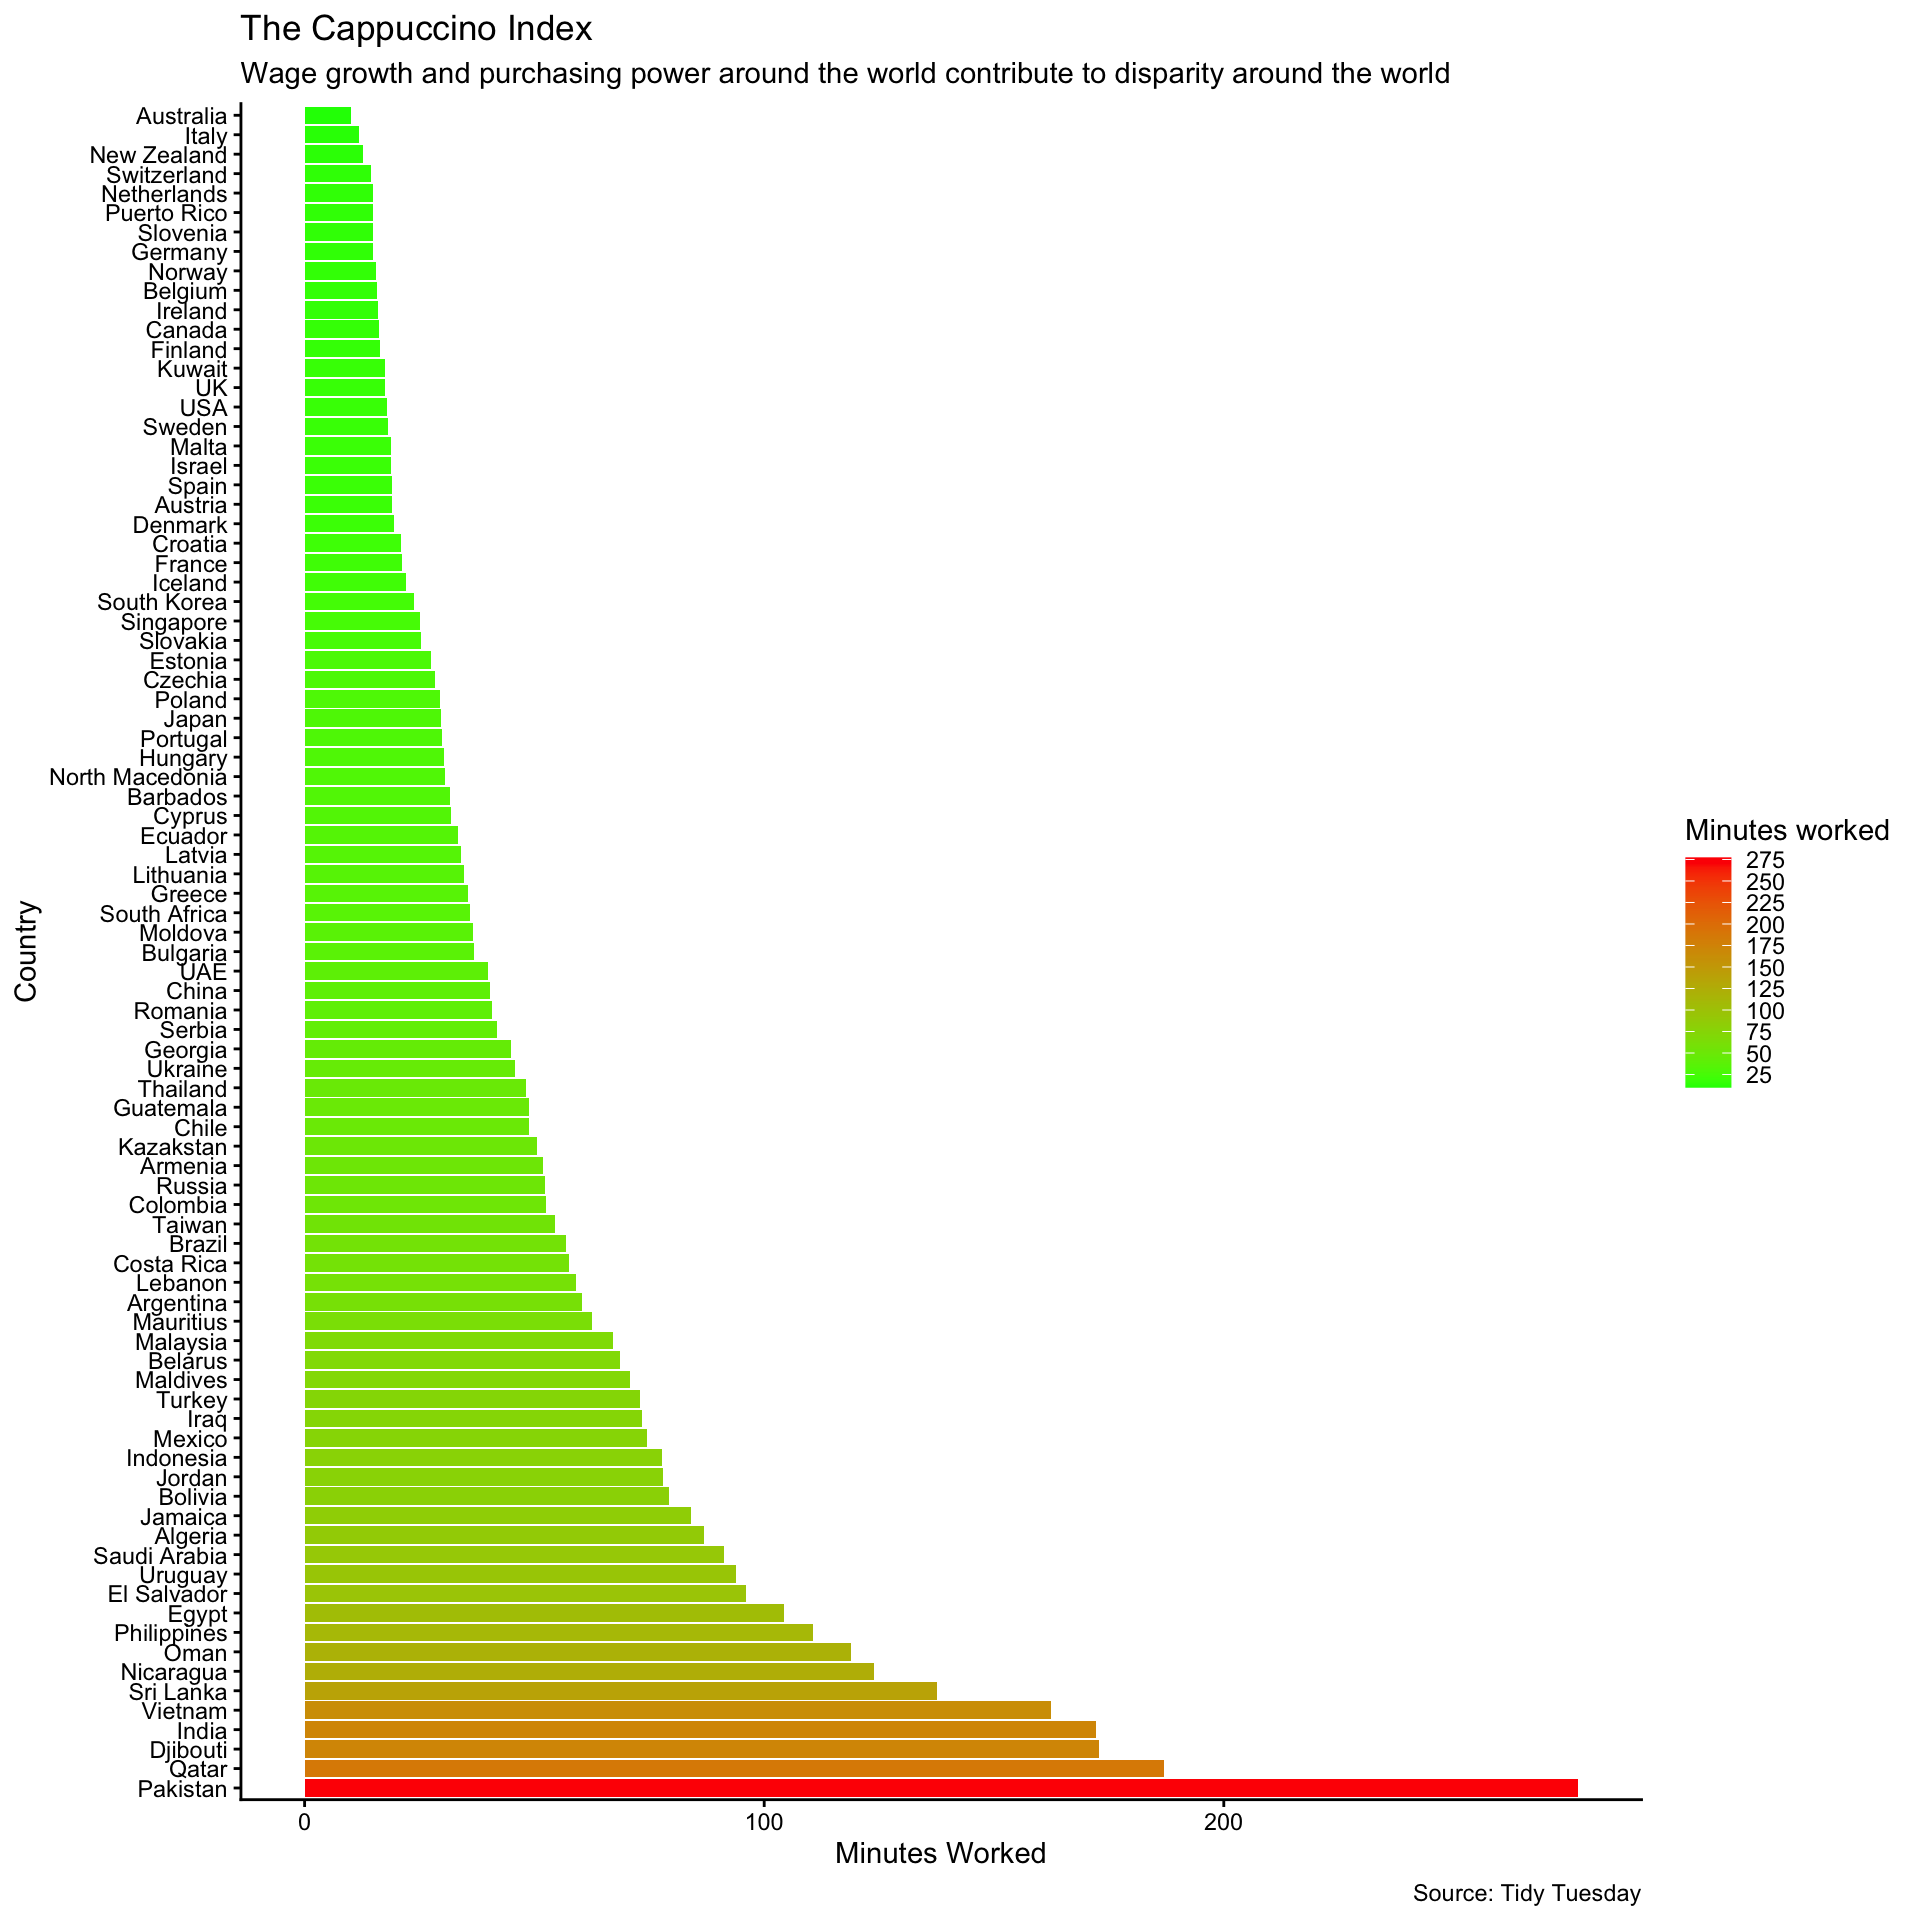
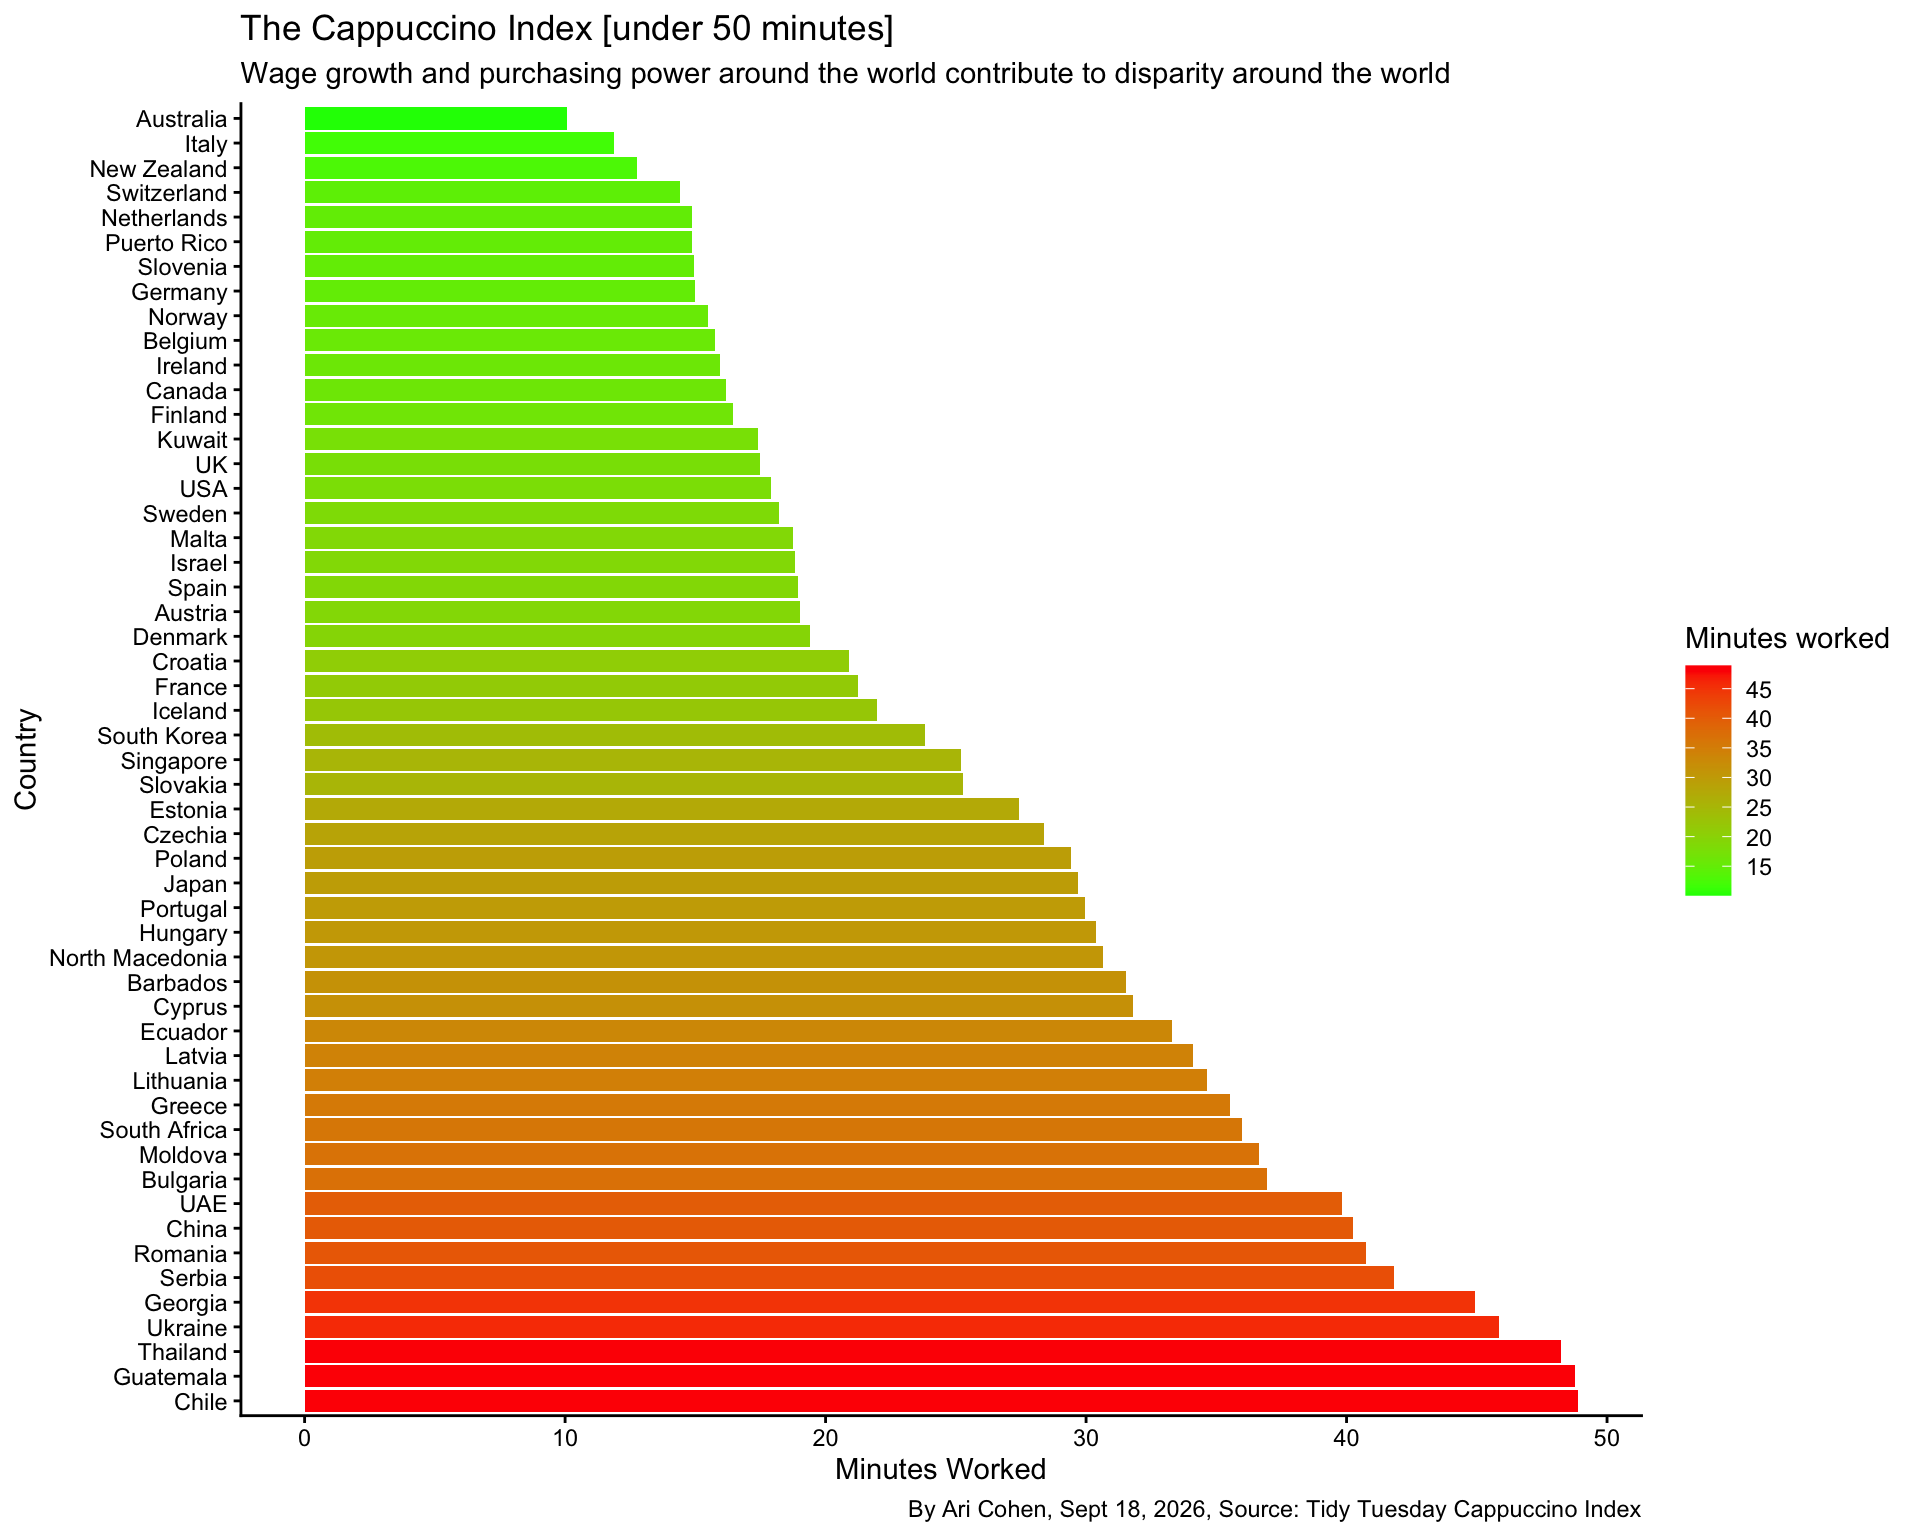
Built site for gh-pages

diff --git a/tt/hw1.html b/tt/hw1.html
@@ -469,19 +469,20 @@ cookieconsent.run({
 <div class="cell">
 <details class="code-fold"><summary>Code</summary><div class="code-copy-outer-scaffold"><div class="sourceCode cell-code" id="cb3"><pre class="sourceCode numberSource r number-lines code-with-copy"><code class="sourceCode r"><span id="cb3-1"><a href="#cb3-1"></a>cappuccino_index <span class="sc">|&gt;</span></span>
 <span id="cb3-2"><a href="#cb3-2"></a>  <span class="fu">mutate</span>(<span class="at">country =</span> <span class="fu">fct_reorder</span>(country, index, <span class="at">.desc =</span> <span class="cn">TRUE</span>)) <span class="sc">|&gt;</span></span>
-<span id="cb3-3"><a href="#cb3-3"></a>  <span class="fu">ggplot</span>(<span class="fu">aes</span>(<span class="at">x =</span> index, <span class="at">y =</span> country, <span class="at">fill =</span> index) ) <span class="sc">+</span></span>
-<span id="cb3-4"><a href="#cb3-4"></a>  <span class="fu">scale_fill_gradient</span>(<span class="at">low =</span> <span class="st">"green"</span>, <span class="at">high =</span> <span class="st">"red"</span>,</span>
-<span id="cb3-5"><a href="#cb3-5"></a>                      <span class="at">breaks =</span> <span class="fu">seq</span>(<span class="dv">0</span>, <span class="fu">max</span>(cappuccino_index<span class="sc">$</span>index), <span class="at">by =</span> <span class="dv">25</span>) ) <span class="sc">+</span></span>
-<span id="cb3-6"><a href="#cb3-6"></a>  <span class="fu">geom_col</span>() <span class="sc">+</span></span>
-<span id="cb3-7"><a href="#cb3-7"></a>  <span class="fu">theme_classic</span>() <span class="sc">+</span></span>
-<span id="cb3-8"><a href="#cb3-8"></a>  <span class="fu">labs</span>(</span>
-<span id="cb3-9"><a href="#cb3-9"></a>    <span class="at">x =</span> <span class="st">"Minutes Worked"</span>,</span>
-<span id="cb3-10"><a href="#cb3-10"></a>    <span class="at">y =</span> <span class="st">"Country"</span>,</span>
-<span id="cb3-11"><a href="#cb3-11"></a>    <span class="at">title =</span> <span class="st">"The Cappuccino Index"</span>,</span>
-<span id="cb3-12"><a href="#cb3-12"></a>    <span class="at">fill =</span> <span class="st">"Minutes worked"</span>,</span>
-<span id="cb3-13"><a href="#cb3-13"></a>    <span class="at">subtitle =</span> <span class="st">"Wage growth and purchasing power around the world contribute to disparity around the world"</span>,</span>
-<span id="cb3-14"><a href="#cb3-14"></a>    <span class="at">caption =</span> <span class="st">"Source: Tidy Tuesday"</span></span>
-<span id="cb3-15"><a href="#cb3-15"></a>  )</span></code></pre></div><button title="Copy to Clipboard" class="code-copy-button"><i class="bi"></i></button></div>
+<span id="cb3-3"><a href="#cb3-3"></a>  <span class="fu">filter</span>(index <span class="sc">&lt;</span> <span class="dv">50</span>) <span class="sc">|&gt;</span></span>
+<span id="cb3-4"><a href="#cb3-4"></a>  <span class="fu">ggplot</span>(<span class="fu">aes</span>(<span class="at">x =</span> index, <span class="at">y =</span> country, <span class="at">fill =</span> index) ) <span class="sc">+</span></span>
+<span id="cb3-5"><a href="#cb3-5"></a>  <span class="fu">scale_fill_gradient</span>(<span class="at">low =</span> <span class="st">"green"</span>, <span class="at">high =</span> <span class="st">"red"</span>,</span>
+<span id="cb3-6"><a href="#cb3-6"></a>                      <span class="at">breaks =</span> <span class="fu">seq</span>(<span class="dv">0</span>, <span class="fu">max</span>(cappuccino_index<span class="sc">$</span>index), <span class="at">by =</span> <span class="dv">5</span>) ) <span class="sc">+</span></span>
+<span id="cb3-7"><a href="#cb3-7"></a>  <span class="fu">geom_col</span>() <span class="sc">+</span></span>
+<span id="cb3-8"><a href="#cb3-8"></a>  <span class="fu">theme_classic</span>() <span class="sc">+</span></span>
+<span id="cb3-9"><a href="#cb3-9"></a>  <span class="fu">labs</span>(</span>
+<span id="cb3-10"><a href="#cb3-10"></a>    <span class="at">x =</span> <span class="st">"Minutes Worked"</span>,</span>
+<span id="cb3-11"><a href="#cb3-11"></a>    <span class="at">y =</span> <span class="st">"Country"</span>,</span>
+<span id="cb3-12"><a href="#cb3-12"></a>    <span class="at">title =</span> <span class="st">"The Cappuccino Index [under 50 minutes]"</span>,</span>
+<span id="cb3-13"><a href="#cb3-13"></a>    <span class="at">fill =</span> <span class="st">"Minutes worked"</span>,</span>
+<span id="cb3-14"><a href="#cb3-14"></a>    <span class="at">subtitle =</span> <span class="st">"Wage growth and purchasing power around the world contribute to disparity around the world"</span>,</span>
+<span id="cb3-15"><a href="#cb3-15"></a>    <span class="at">caption =</span> <span class="st">"By Ari Cohen, Sept 18, 2026, Source: Tidy Tuesday Cappuccino Index"</span></span>
+<span id="cb3-16"><a href="#cb3-16"></a>  )</span></code></pre></div><button title="Copy to Clipboard" class="code-copy-button"><i class="bi"></i></button></div>
 </details><div class="cell-output-display">
 <div>
 <figure class="figure"><p><img src="hw1_files/figure-html/unnamed-chunk-3-1.png" class="img-fluid figure-img" width="960"></p>
@@ -994,25 +995,26 @@ cookieconsent.run({
 <span id="cb4-23"><a href="#cb4-23"></a></span>
 <span id="cb4-24"><a href="#cb4-24"></a></span>
 <span id="cb4-25"><a href="#cb4-25"></a></span>
-<span id="cb4-26"><a href="#cb4-26"></a><span class="in">```{r fig.height = 10, fig.width = 10}</span></span>
+<span id="cb4-26"><a href="#cb4-26"></a><span class="in">```{r fig.height = 8, fig.width = 10}</span></span>
 <span id="cb4-27"><a href="#cb4-27"></a>cappuccino_index <span class="sc">|&gt;</span></span>
 <span id="cb4-28"><a href="#cb4-28"></a>  <span class="fu">mutate</span>(<span class="at">country =</span> <span class="fu">fct_reorder</span>(country, index, <span class="at">.desc =</span> <span class="cn">TRUE</span>)) <span class="sc">|&gt;</span></span>
-<span id="cb4-29"><a href="#cb4-29"></a>  <span class="fu">ggplot</span>(<span class="fu">aes</span>(<span class="at">x =</span> index, <span class="at">y =</span> country, <span class="at">fill =</span> index) ) <span class="sc">+</span></span>
-<span id="cb4-30"><a href="#cb4-30"></a>  <span class="fu">scale_fill_gradient</span>(<span class="at">low =</span> <span class="st">"green"</span>, <span class="at">high =</span> <span class="st">"red"</span>,</span>
-<span id="cb4-31"><a href="#cb4-31"></a>                      <span class="at">breaks =</span> <span class="fu">seq</span>(<span class="dv">0</span>, <span class="fu">max</span>(cappuccino_index<span class="sc">$</span>index), <span class="at">by =</span> <span class="dv">25</span>) ) <span class="sc">+</span></span>
-<span id="cb4-32"><a href="#cb4-32"></a>  <span class="fu">geom_col</span>() <span class="sc">+</span></span>
-<span id="cb4-33"><a href="#cb4-33"></a>  <span class="fu">theme_classic</span>() <span class="sc">+</span></span>
-<span id="cb4-34"><a href="#cb4-34"></a>  <span class="fu">labs</span>(</span>
-<span id="cb4-35"><a href="#cb4-35"></a>    <span class="at">x =</span> <span class="st">"Minutes Worked"</span>,</span>
-<span id="cb4-36"><a href="#cb4-36"></a>    <span class="at">y =</span> <span class="st">"Country"</span>,</span>
-<span id="cb4-37"><a href="#cb4-37"></a>    <span class="at">title =</span> <span class="st">"The Cappuccino Index"</span>,</span>
-<span id="cb4-38"><a href="#cb4-38"></a>    <span class="at">fill =</span> <span class="st">"Minutes worked"</span>,</span>
-<span id="cb4-39"><a href="#cb4-39"></a>    <span class="at">subtitle =</span> <span class="st">"Wage growth and purchasing power around the world contribute to disparity around the world"</span>,</span>
-<span id="cb4-40"><a href="#cb4-40"></a>    <span class="at">caption =</span> <span class="st">"Source: Tidy Tuesday"</span></span>
-<span id="cb4-41"><a href="#cb4-41"></a>  )</span>
-<span id="cb4-42"><a href="#cb4-42"></a>  </span>
+<span id="cb4-29"><a href="#cb4-29"></a>  <span class="fu">filter</span>(index <span class="sc">&lt;</span> <span class="dv">50</span>) <span class="sc">|&gt;</span></span>
+<span id="cb4-30"><a href="#cb4-30"></a>  <span class="fu">ggplot</span>(<span class="fu">aes</span>(<span class="at">x =</span> index, <span class="at">y =</span> country, <span class="at">fill =</span> index) ) <span class="sc">+</span></span>
+<span id="cb4-31"><a href="#cb4-31"></a>  <span class="fu">scale_fill_gradient</span>(<span class="at">low =</span> <span class="st">"green"</span>, <span class="at">high =</span> <span class="st">"red"</span>,</span>
+<span id="cb4-32"><a href="#cb4-32"></a>                      <span class="at">breaks =</span> <span class="fu">seq</span>(<span class="dv">0</span>, <span class="fu">max</span>(cappuccino_index<span class="sc">$</span>index), <span class="at">by =</span> <span class="dv">5</span>) ) <span class="sc">+</span></span>
+<span id="cb4-33"><a href="#cb4-33"></a>  <span class="fu">geom_col</span>() <span class="sc">+</span></span>
+<span id="cb4-34"><a href="#cb4-34"></a>  <span class="fu">theme_classic</span>() <span class="sc">+</span></span>
+<span id="cb4-35"><a href="#cb4-35"></a>  <span class="fu">labs</span>(</span>
+<span id="cb4-36"><a href="#cb4-36"></a>    <span class="at">x =</span> <span class="st">"Minutes Worked"</span>,</span>
+<span id="cb4-37"><a href="#cb4-37"></a>    <span class="at">y =</span> <span class="st">"Country"</span>,</span>
+<span id="cb4-38"><a href="#cb4-38"></a>    <span class="at">title =</span> <span class="st">"The Cappuccino Index [under 50 minutes]"</span>,</span>
+<span id="cb4-39"><a href="#cb4-39"></a>    <span class="at">fill =</span> <span class="st">"Minutes worked"</span>,</span>
+<span id="cb4-40"><a href="#cb4-40"></a>    <span class="at">subtitle =</span> <span class="st">"Wage growth and purchasing power around the world contribute to disparity around the world"</span>,</span>
+<span id="cb4-41"><a href="#cb4-41"></a>    <span class="at">caption =</span> <span class="st">"By Ari Cohen, Sept 18, 2026, Source: Tidy Tuesday Cappuccino Index"</span></span>
+<span id="cb4-42"><a href="#cb4-42"></a>  )</span>
 <span id="cb4-43"><a href="#cb4-43"></a>  </span>
-<span id="cb4-44"><a href="#cb4-44"></a><span class="in">```</span></span>
+<span id="cb4-44"><a href="#cb4-44"></a>  </span>
+<span id="cb4-45"><a href="#cb4-45"></a><span class="in">```</span></span>
 </code></pre></div><button title="Copy to Clipboard" class="code-copy-button" data-in-quarto-modal=""><i class="bi"></i></button></div>
 </div></div></div></div></div>
 </div> <!-- /content -->

diff --git a/index.html b/index.html
@@ -457,7 +457,7 @@ cookieconsent.run({
     <div>
     <div class="quarto-title-meta-heading">Published</div>
     <div class="quarto-title-meta-contents">
-      <p class="date">Wednesday, September 16, 2026</p>
+      <p class="date">Friday, September 18, 2026</p>
     </div>
   </div>
   
@@ -469,8 +469,8 @@ cookieconsent.run({
 </header><p>Welcome to my online portfolio for COMP/STAT112 course taken at <a href="https://www.macalester.edu/">Macalester College</a>. Please, use the side bar on the left for navigation.</p>
 <div class="cell">
 <div class="cell-output-display">
-<div class="wordcloud2 html-widget html-fill-item" id="htmlwidget-c069a3e7f202a6cf8aa5" style="width:100%;height:464px;"></div>
-<script type="application/json" data-for="htmlwidget-c069a3e7f202a6cf8aa5">{"x":{"word":["welcome","to","comp","stat","212","mac","st paul"],"freq":[10,2,8,8,8,6,6],"fontFamily":"Segoe UI","fontWeight":"bold","color":"random-dark","minSize":0,"weightFactor":18,"backgroundColor":"white","gridSize":0,"minRotation":-0.7853981633974483,"maxRotation":0.7853981633974483,"shuffle":true,"rotateRatio":0.4,"shape":"cardioid","ellipticity":0.65,"figBase64":null,"hover":null},"evals":[],"jsHooks":{"render":[{"code":"function(el,x){\n                        console.log(123);\n                        if(!iii){\n                          window.location.reload();\n                          iii = False;\n\n                        }\n  }","data":null}]}}</script>
+<div class="wordcloud2 html-widget html-fill-item" id="htmlwidget-9cdcd9b30843c70f16b4" style="width:100%;height:464px;"></div>
+<script type="application/json" data-for="htmlwidget-9cdcd9b30843c70f16b4">{"x":{"word":["welcome","to","comp","stat","212","mac","st paul"],"freq":[10,2,8,8,8,6,6],"fontFamily":"Segoe UI","fontWeight":"bold","color":"random-dark","minSize":0,"weightFactor":18,"backgroundColor":"white","gridSize":0,"minRotation":-0.7853981633974483,"maxRotation":0.7853981633974483,"shuffle":true,"rotateRatio":0.4,"shape":"cardioid","ellipticity":0.65,"figBase64":null,"hover":null},"evals":[],"jsHooks":{"render":[{"code":"function(el,x){\n                        console.log(123);\n                        if(!iii){\n                          window.location.reload();\n                          iii = False;\n\n                        }\n  }","data":null}]}}</script>
 </div>
 </div>
 

diff --git a/404.html b/404.html
@@ -7,7 +7,7 @@
 <meta name="viewport" content="width=device-width, initial-scale=1.0, user-scalable=yes">
 
 
-<title>quarto-inputbf0b62a73cf1a7fd – COMP/STAT212 Portfolio</title>
+<title>quarto-inputd0006ebb05c94e3b – COMP/STAT212 Portfolio</title>
 <style>
 /* Default styles provided by pandoc.
 ** See https://pandoc.org/MANUAL.html#variables-for-html for config info.
